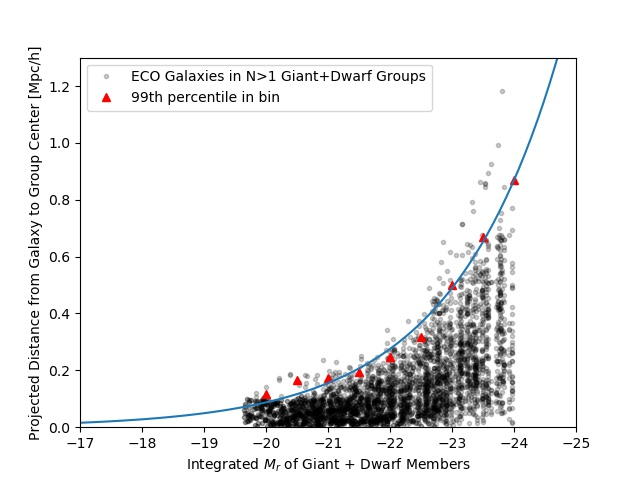
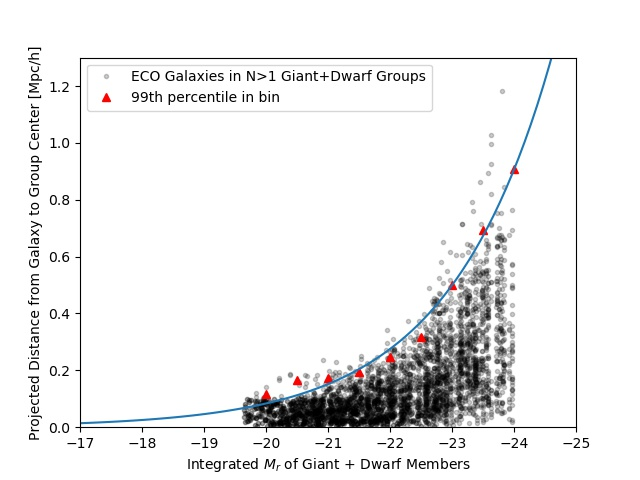
updating step 1 descr

diff --git a/readme.md b/readme.md
@@ -15,7 +15,7 @@ We provide galaxy catalogs containing group information from three group-finding
 * `g3grpdedeg_*`: declination of group center in decimal degrees
 * `g3grpcz_*`: Local Group-corrected velocity of group center in km/s
 * `g3logmh_*`: abundance-matched log halo mass (m200b) assuming h=0.7
-* `g3rvir_*`: theoretical group virial radius, in arcseconds, from halo mass (337c convention, i.e. NOT r200b)
+* `g3rvir_*`: theoretical group virial radius, in arcseconds, from halo mass (337b convention, i.e. NOT r200b)
 * `g3rproj_*`: observational group projected radius, in arcseconds, calculated as 75th percentile radius of giant and dwarf members
 * `g3router_*`: distance to outermost group member, in arcseconds, from the group center
 * `g3fc_*`: 1/0 central flag, defined as the most luminous or massive group galaxy.
@@ -30,14 +30,20 @@ Note: Positions of group centers -- `g3grpradeg`, `g3grpdedeg`, `g3grpcz` -- are
 ## Step 1: Finding Giant-Only Cores of Groups
 <details>
 
-In the first step of the group finder, we use friends-of-friends (FoF)  to locate groups of giant galaxies. We define giants as galaxies that are  more massive than the gas-richness threshold scale from Kannappan et al. (2013). Therefore our selection criteria for giant-only FoF are:
+In the first step of the group finder, we use friends-of-friends (FoF)  to locate groups of giant galaxies. We place our definition of the giant-dwarf divide at the cusp in<a href="users.castle.unc.edu/~zhutchen/dwarfgiantdivide_stellar.jpg">M*-L relation</a>, which occurs at log stellar mass ~9.5. This mass is approximately equal to the gas-richness threshold scale in stellar mass (Eckert+ 2016). For baryonic mass, we look at the <a href="users.castle.unc.edu/~zhutchen/dwarfgiantdivide_baryonic.jpg">correlation between r-band luminosity and baryonic mass </a>, and divide dwarfs from giants at its intersection with `M_r = -19.4` (which defined the M*-L cusp).
+
+
+Therefore our selection criteria for giant-only FoF are:
 
 * Luminosity-selected ECO/RESOLVE-A: `M_r<=-19.4`, `2530 < cz [km/s] < 7470`
 * Luminosity-selected RESOLVE-B: `M_r<=-19.4`, `4250 < cz [km/s] < 7250` 
 * Stellar mass-selected ECO/RESOLVE-A: `log(Mstar)>=9.5`, `2530 < cz [km/s] < 7470`
 * Stellar mass-selected RESOLVE-B: `log(Mstar)>=9.5`, `4250 < cz [km/s] < 7250`
+* Baryonic mass-selected ECO/RESOLVE-A: `log(Mbary)>=9.9`, `2530 < cz [km/s] < 7470`
+* Baryonic mass-seleted RESOLVE-B: `log(Mbary)>=9.9`, `4250 < cz [km/s] < 7250`
 
-We employ an adaptive linking strategy during this giant-only FoF procedure, inspired by Robotham et al. (2011) and its volume-limited application in Mummery (2018). We use line-of-sight b<sub>LOS</sub> and transverse b<sub>&#8869;</sub> linking multipliers of 1.1 and 0.07, respectively, as these are optimized for the study of galaxy environment (Duarte & Mamon, 2014). In a standard FoF approach, these values are multiplied by the mean separation of galaxies, s<sub>0</sub>=(V/N)<sup>1/3</sup>, and are used as linking lengths. Here we assign a different value of `s` to every galaxy, measured instead by the number density of galaxies which are greater than or equal to their luminosity or mass. We then look at the median value of `s` over all galaxies and scale all `s` values such that the median is retained at the original s<sub>0</sub>=(V/N)<sup>1/3</sup>. The figure below shows how the value of `s` varies with absolute magnitude. We apply these ECO `s` values to RESOLVE-B using a model fit, since the B semester volume is subject to cosmic variance. This approach ensures that the linking length rises with galaxy luminosity/stellar mass and therefore reduces fragmentation of identified groups.
+
+We employ an adaptive linking strategy during this giant-only FoF procedure, inspired by Robotham et al. (2011) and its volume-limited application in Mummery (2018, PhD thesis). We use line-of-sight b<sub>LOS</sub> and transverse b<sub>&#8869;</sub> linking multipliers of 1.1 and 0.07, respectively, as these are optimized for the study of galaxy environment (Duarte & Mamon, 2014). In a standard FoF approach, these values are multiplied by the mean separation of galaxies, s<sub>0</sub>=(V/N)<sup>1/3</sup>, and are used as linking lengths. Here we assign a different value of `s` to every galaxy, measured instead by the number density of galaxies which are greater than or equal to their luminosity or mass. We then look at the median value of `s` over all galaxies and scale all `s` values such that the median is retained at the original s<sub>0</sub>=(V/N)<sup>1/3</sup>. The figure below shows how the value of `s` varies with absolute magnitude. We obtain `s` values for ECO and RESOLVE-B using a model fit, to (a) smooth noise in ECO brightward of ~-23, and (b) control for cosmic variance in the RESOLVE-B volume. The fit is recomputed on stellar or baryonic mass for their respective samples. This adaptive approach ensures that the linking length rises with galaxy luminosity/stellar mass and therefore reduces fragmentation of identified groups. The shape of the curve is determined by the galaxy luminosity/mass distribution, so this curve could be extended to other surveys given that ECO is resilient to cosmic variance. 
 
 ![Separation for Giant Galaxies in FoF](images/meansep_M_r_plot.jpg)
 
